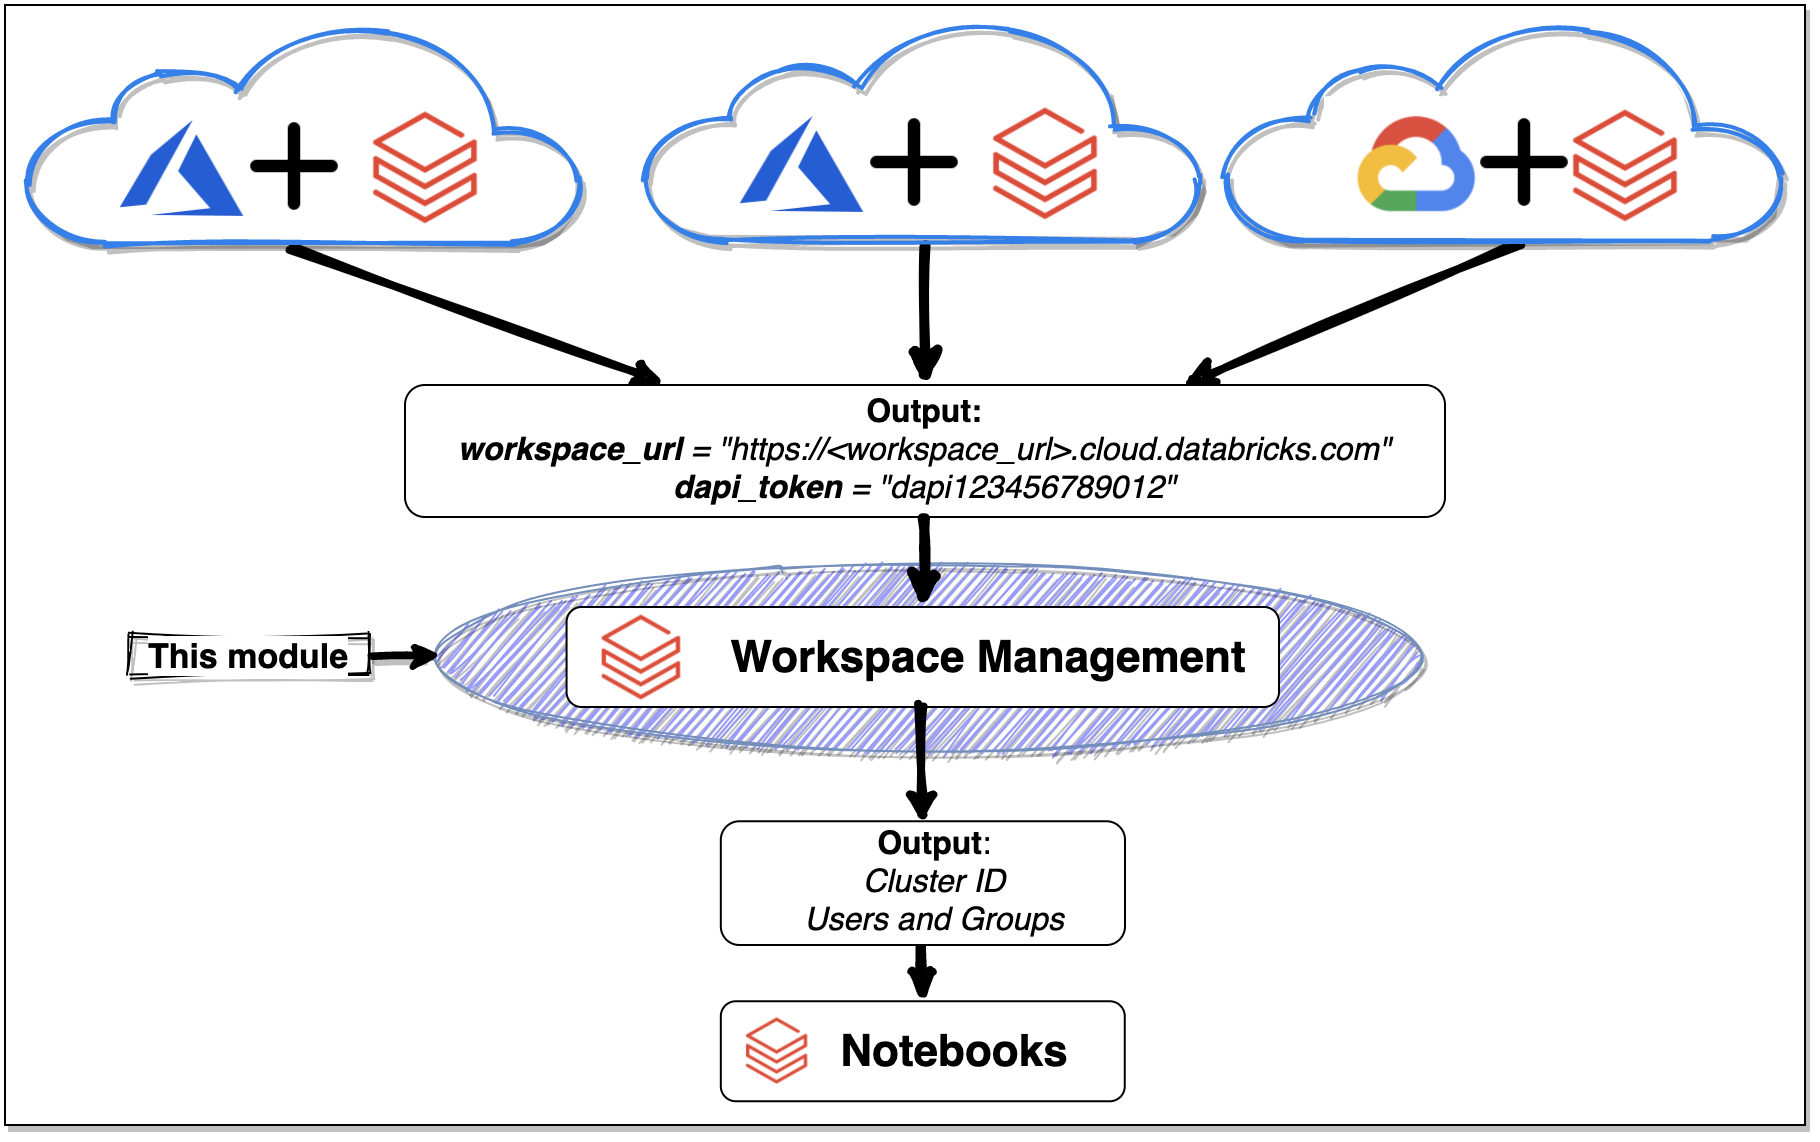
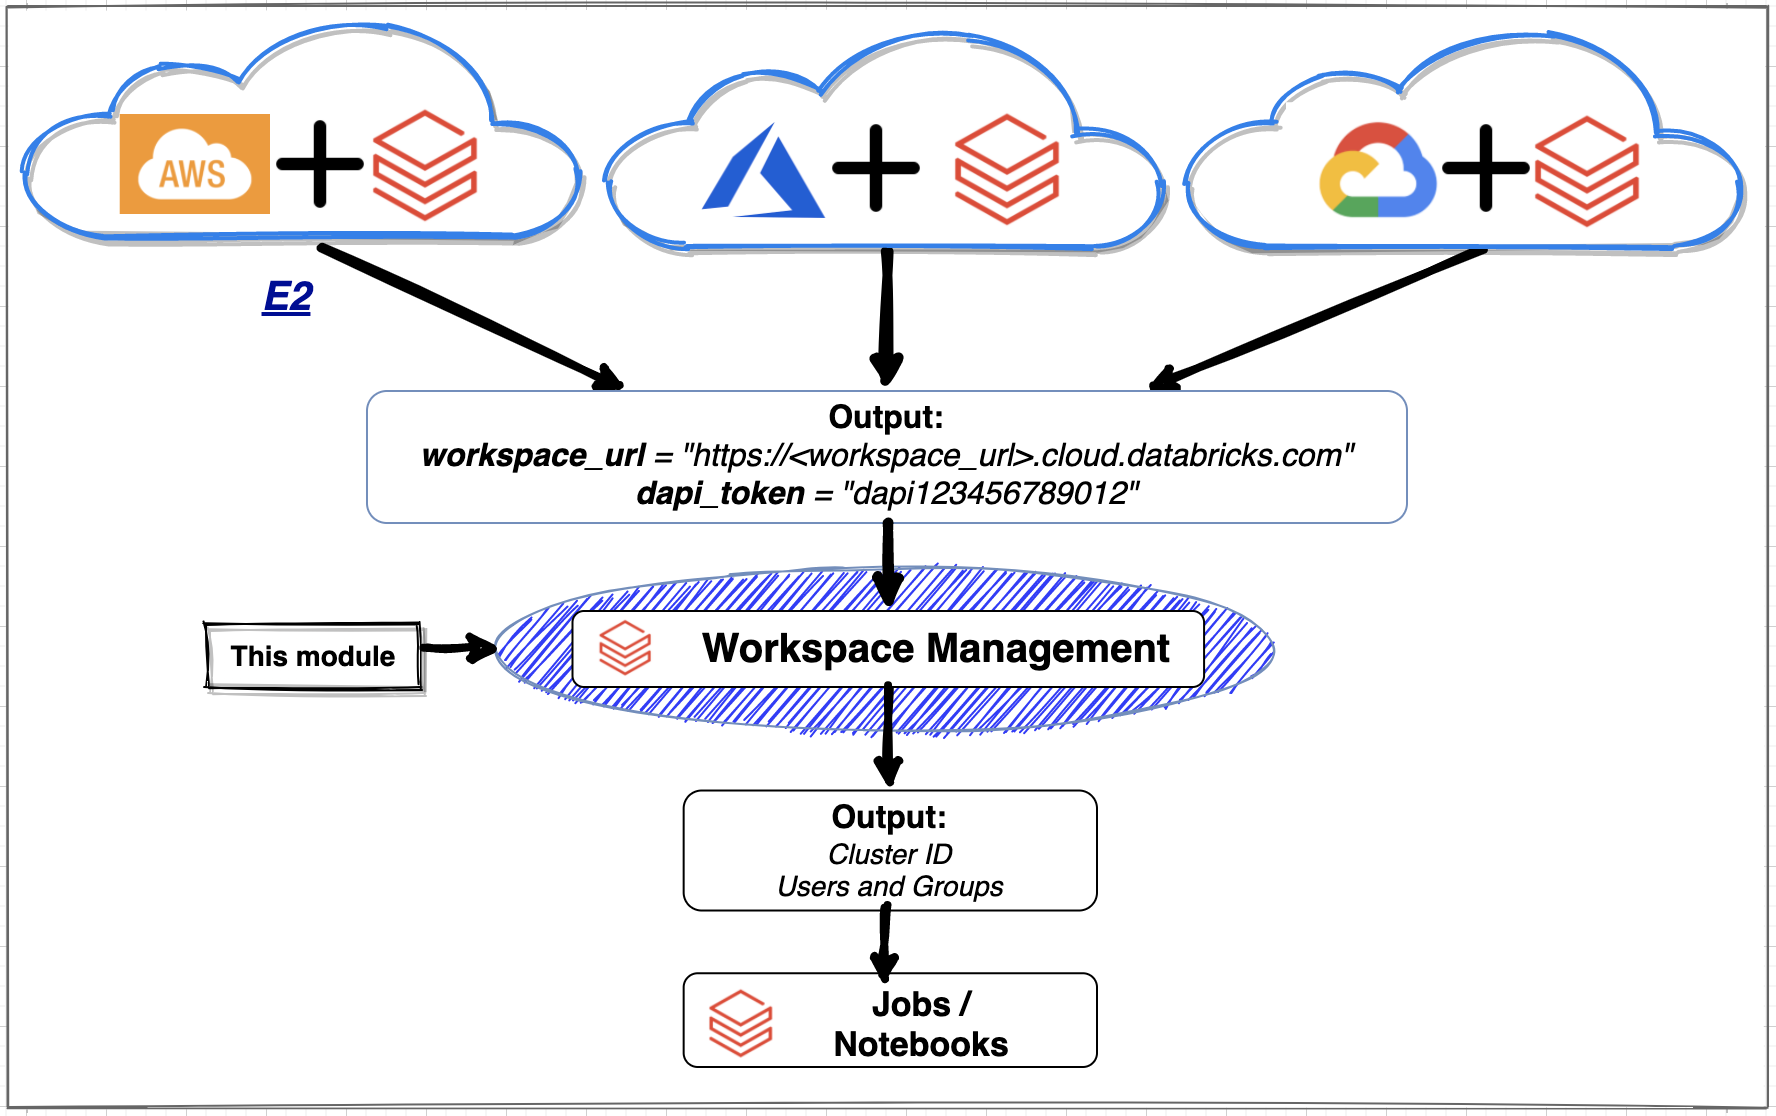
handling multiple notebooks and job deployment

Changed region(s): [[0.0, 0.0, 1.0, 1.0], [0.7742, 0.4265, 0.8052, 0.457]]

diff --git a/README.md b/README.md
@@ -38,6 +38,43 @@
 ![Databricks deployment](https://github.com/tomarv2/terraform-databricks-workspace-management/raw/main/docs/images/databricks-workspace-management.png)
 ---
 
+## What this module does?
+
+##### [Create Cluster:](examples/cluster)
+
+- This is where you would normally start with if you just deployed your databricks workspace.
+ Two options are available:
+  - Minimum configuration required to bring up a cluster.
+  - Bring up cluster with most of the available options.
+Note: Some option may be missing.
+
+##### [Deploy Job on new or existing cluster:](examples/job)
+
+- Deploy Job to an existing cluster. 
+- Deploy Cluster and deploy Job.
+Note: Job name and Notebook name is same.
+
+##### [Deploy Notebook:](examples/notebook)
+
+- Once you have Notebook ready put them in the notebooks folder and specify the job as below:
+
+``` 
+notebook_info = {
+  default994 = {
+    language        = "PYTHON"
+    local_path      = "notebooks/demo_notebook_1.py"
+  }
+  default140 = {
+    language        = "PYTHON"
+    local_path      = "notebooks/demo_notebook_2.py"
+  }
+}
+```
+
+##### [Deploy everything(cluster,job, and notebook):](examples/all)
+
+- Try this: If you want to test what resources are getting deployed.
+
 ## Usage
 
 ### Option 1:
